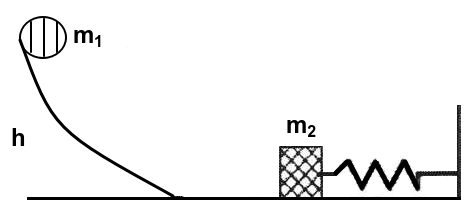
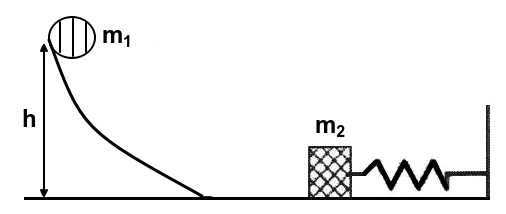
1

diff --git a/datos.js b/datos.js
@@ -280,62 +280,82 @@ const baseDatosProblemas = {
         }
     ],
     "elastica": [
-    {
-        titulo: "Problema 1: Energía elástica y rozamiento",
-        enunciado: "Un resorte de constante K = 4000 N/m se comprime una distancia de 0,4 m. Se apoya en él un objeto de 6 kg de masa. Se suelta el muelle y el objeto es lanzado en una superficie horizontal en la que la fuerza de rozamiento vale 27 N. Calcular: <br> a) la velocidad con que sale lanzado el objeto. <br> b) la distancia que recorre el objeto antes de pararse.",
-        solucion: `
-            <div class='paso'>
-                <strong>a) Cálculo de la velocidad de lanzamiento:</strong><br>
-                La energía potencial elástica almacenada en el muelle se transforma íntegramente en energía cinética (suponiendo que el muelle se suelta en el punto de equilibrio):<br>
-                \\[E_{pe} = \\frac{1}{2} \\cdot K \\cdot x^2 = \\frac{1}{2} \\cdot 4000 \\cdot (0,4)^2 = 320 \\text{ J}\\]
-                Igualamos a la energía cinética (\\(E_c = \\frac{1}{2} \\cdot m \\cdot v^2\\)) para despejar la velocidad:<br>
-                \\[320 = \\frac{1}{2} \\cdot 6 \\cdot v^2 \\implies v^2 = \\frac{320}{3} \\implies v = \\sqrt{106,67} \\approx 10,33 \\text{ m/s}\\]
-                <span class='resultado'>Resultado: &nbsp \\(v \\approx 10,3 \\text{ m/s}\\)</span>
-            </div>
-            <div class='paso'>
-                <strong>b) Distancia hasta detenerse:</strong><br>
-                El trabajo de la fuerza de rozamiento debe consumir toda la energía cinética del objeto hasta pararlo (\\(W_r = \\Delta E_c\\)):<br>
-                \\[W_r = F_r \\cdot x \\implies 320 = 27 \\cdot x\\]
-                \\[x = \\frac{320}{27} \\approx 11,85 \\text{ m}\\]
-                <span class='resultado'>Resultado: &nbsp \\(x = 11,85 \\text{ m}\\)</span>
-            </div>
-        `
-    },
-    {
-        titulo: "Problema 2: Conservación de la energía y choques",
-        enunciado: "En el sistema de la figura se tiene que \\(m_1 = 1 \\text{ kg}, h = 1 \\text{ m}, m_2 = 0,5 \\text{ kg}, K = 200 \\text{ N/m}\\), y el rozamiento es nulo. Al dejar suelta \\(m_1\\), cae y comprime el muelle. Calculad: <br> a) La velocidad de \\(m_1\\) al chocar con la otra masa y la máxima deformación del muelle. <br> b) Tras el choque, \\(m_1\\) y \\(m_2\\) salen despedidas juntas. Calculad con qué velocidad empezarán a subir, y hasta qué altura lo harán. <br> <br> <div style='text-align: center; margin-bottom: 20px;'> <img src='img/felas_2.png' style='max-width: 50%;height: auto; border-radius: 8px; box-shadow: 0px 4px 8px rgba(0,0,0,0.1);'> </div> ",
-        solucion: `
-            <div class='paso'>
-                <strong>a) Velocidad de choque y deformación:</strong><br>
-                La velocidad de \\(m_1\\) antes del choque se obtiene por conservación de energía mecánica:<br>
-                \\[m_1 \\cdot g \\cdot h = \\frac{1}{2} \\cdot m_1 \\cdot v^2 \\implies v = \\sqrt{2 \\cdot g \\cdot h} = \\sqrt{2 \\cdot 9,8 \\cdot 1} \\approx 4,43 \\text{ m/s}\\]
-                Para la deformación máxima, asumimos que tras el choque (que suele considerarse inelástico para que compriman juntos) la energía cinética del sistema se convierte en elástica. <br>
-                Primero hallamos la velocidad del conjunto (\\(v'\\)) por conservación del momento lineal:<br>
-                \\[m_1 \\cdot v = (m_1 + m_2) \\cdot v' \\implies 1 \\cdot 4,43 = 1,5 \\cdot v' \\implies v' \\approx 2,95 \\text{ m/s}\\]
-                Energía cinética del conjunto = Energía elástica máxima:<br>
-                \\[\\frac{1}{2} \\cdot (m_1 + m_2) \\cdot (v')^2 = \\frac{1}{2} \\cdot K \\cdot x^2\\]
-                \\[\\frac{1}{2} \\cdot (1,5) \\cdot (2,95)^2 = \\frac{1}{2} \\cdot 200 \\cdot x^2 \\implies 6,52 = 100 x^2 \\implies x \\approx 0,255 \\text{ m}\\]
-                <span class='resultado'>Resultados: &nbsp \\( v = 4,43 \\text{ m/s}\\); &nbsp \\(x = 0,255 \\text{ m}\\)</span>
-            </div>
-            <div class='paso'>
-                <strong>b) Velocidad de ascenso y altura máxima:</strong><br>
-                Como el enunciado indica que tras la compresión salen despedidas juntas y el rozamiento es nulo, la velocidad inicial de subida es la misma que calculamos tras el choque: \\(v' = 2,95 \\text{ m/s}\\).<br>
-                Para la altura final (\\(h'\\)), aplicamos de nuevo conservación de energía:<br>
-                \\[\\frac{1}{2} \\cdot M \\cdot (v')^2 = M \\cdot g \\cdot h' \\implies h' = \\frac{(v')^2}{2 \\cdot g}\\]
-                \\[h' = \\frac{2,95^2}{2 \\cdot 9,8} = \\frac{8,70}{19,6} \\approx 0,44 \\text{ m}\\]
-                <span class='resultado'>Resultados: &nbsp \\(v' = 2,95 \\text{ m/s}\\); &nbsp \\(h' = 0,44 \\text{ m}\\)</span>
-            </div>
-        `
-        }    
+        {
+            titulo: "Problema 1: Muelle vertical",
+            enunciado: "Al colgar un cuerpo de 10 kg de un muelle vertical se produce un alargamiento de 7,2 cm. Calcula: <br> </>a) La constante elástica del muelle. <br> b) La energía potencial elástica almacenada.",
+            solucion: `
+            `
+        },
+        {
+            titulo: "Problema 2: Energía elástica y rozamiento",
+            enunciado: "Un resorte de constante K = 4000 N/m se comprime una distancia de 0,4 m. Se apoya en él un objeto de 6 kg de masa. Se suelta el muelle y el objeto es lanzado en una superficie horizontal en la que la fuerza de rozamiento vale 27 N. Calcular: <br> a) la velocidad con que sale lanzado el objeto. <br> b) la distancia que recorre el objeto antes de pararse.",
+            solucion: `
+                <div class='paso'>
+                    <strong>a) Cálculo de la velocidad de lanzamiento:</strong><br>
+                    La energía potencial elástica almacenada en el muelle se transforma íntegramente en energía cinética (suponiendo que el muelle se suelta en el punto de equilibrio):<br>
+                    \\[E_{pe} = \\frac{1}{2} \\cdot K \\cdot x^2 = \\frac{1}{2} \\cdot 4000 \\cdot (0,4)^2 = 320 \\text{ J}\\]
+                    Igualamos a la energía cinética (\\(E_c = \\frac{1}{2} \\cdot m \\cdot v^2\\)) para despejar la velocidad:<br>
+                    \\[320 = \\frac{1}{2} \\cdot 6 \\cdot v^2 \\implies v^2 = \\frac{320}{3} \\implies v = \\sqrt{106,67} \\approx 10,33 \\text{ m/s}\\]
+                    <span class='resultado'>Resultado: &nbsp \\(v \\approx 10,3 \\text{ m/s}\\)</span>
+                </div>
+                <div class='paso'>
+                    <strong>b) Distancia hasta detenerse:</strong><br>
+                    El trabajo de la fuerza de rozamiento debe consumir toda la energía cinética del objeto hasta pararlo (\\(W_r = \\Delta E_c\\)):<br>
+                    \\[W_r = F_r \\cdot x \\implies 320 = 27 \\cdot x\\]
+                    \\[x = \\frac{320}{27} \\approx 11,85 \\text{ m}\\]
+                    <span class='resultado'>Resultado: &nbsp \\(x = 11,85 \\text{ m}\\)</span>
+                </div>
+            `
+        },
+        {
+            titulo: "Problema 3: Conservación de la energía y choques",
+            enunciado: "En el sistema de la figura se tiene que \\(m_1 = 1 \\text{ kg}, h = 1 \\text{ m}, m_2 = 0,5 \\text{ kg}, K = 200 \\text{ N/m}\\), y el rozamiento es nulo. Al dejar suelta \\(m_1\\), cae y comprime el muelle. Calculad: <br> a) La velocidad de \\(m_1\\) al chocar con la otra masa y la máxima deformación del muelle. <br> b) Tras el choque, \\(m_1\\) y \\(m_2\\) salen despedidas juntas. Calculad con qué velocidad empezarán a subir, y hasta qué altura lo harán. <br> <br> <div style='text-align: center; margin-bottom: 20px;'> <img src='img/felas_2.png' style='max-width: 50%;height: auto; border-radius: 8px; box-shadow: 0px 4px 8px rgba(0,0,0,0.1);'> </div> ",
+            solucion: `
+                <div class='paso'>
+                    <strong>a) Velocidad de choque y deformación:</strong><br>
+                    La velocidad de \\(m_1\\) antes del choque se obtiene por conservación de energía mecánica:<br>
+                    \\[m_1 \\cdot g \\cdot h = \\frac{1}{2} \\cdot m_1 \\cdot v^2 \\implies v = \\sqrt{2 \\cdot g \\cdot h} = \\sqrt{2 \\cdot 9,8 \\cdot 1} \\approx 4,43 \\text{ m/s}\\]
+                    Para la deformación máxima, asumimos que tras el choque (que suele considerarse inelástico para que compriman juntos) la energía cinética del sistema se convierte en elástica. <br>
+                    Primero hallamos la velocidad del conjunto (\\(v'\\)) por conservación del momento lineal:<br>
+                    \\[m_1 \\cdot v = (m_1 + m_2) \\cdot v' \\implies 1 \\cdot 4,43 = 1,5 \\cdot v' \\implies v' \\approx 2,95 \\text{ m/s}\\]
+                    Energía cinética del conjunto = Energía elástica máxima:<br>
+                    \\[\\frac{1}{2} \\cdot (m_1 + m_2) \\cdot (v')^2 = \\frac{1}{2} \\cdot K \\cdot x^2\\]
+                    \\[\\frac{1}{2} \\cdot (1,5) \\cdot (2,95)^2 = \\frac{1}{2} \\cdot 200 \\cdot x^2 \\implies 6,52 = 100 x^2 \\implies x \\approx 0,255 \\text{ m}\\]
+                    <span class='resultado'>Resultados: &nbsp \\( v = 4,43 \\text{ m/s}\\); &nbsp \\(x = 0,255 \\text{ m}\\)</span>
+                </div>
+                <div class='paso'>
+                    <strong>b) Velocidad de ascenso y altura máxima:</strong><br>
+                    Como el enunciado indica que tras la compresión salen despedidas juntas y el rozamiento es nulo, la velocidad inicial de subida es la misma que calculamos tras el choque: \\(v' = 2,95 \\text{ m/s}\\).<br>
+                    Para la altura final (\\(h'\\)), aplicamos de nuevo conservación de energía:<br>
+                    \\[\\frac{1}{2} \\cdot M \\cdot (v')^2 = M \\cdot g \\cdot h' \\implies h' = \\frac{(v')^2}{2 \\cdot g}\\]
+                    \\[h' = \\frac{2,95^2}{2 \\cdot 9,8} = \\frac{8,70}{19,6} \\approx 0,44 \\text{ m}\\]
+                    <span class='resultado'>Resultados: &nbsp \\(v' = 2,95 \\text{ m/s}\\); &nbsp \\(h' = 0,44 \\text{ m}\\)</span>
+                </div>
+            `
+        }
+
     ],
     "conservacion": [
-/*     {
+        {
+            titulo: "Problema 1: Altura en un plano inclinado",
+            enunciado: "Un cuerpo se mueve a una velocidad de 72 km/h cuando se encuentra con un plano inclinado a 45º. Si la masa del cuerpo es de 10 kg y se supone que no existe rozamiento entre el cuerpo y el plano, halla la altura que alcanza el cuerpo sobre el plano hasta que se detiene. <br> <br> <div style='text-align: center; margin-bottom: 20px;'> <img src='img/conservacion_1.png' style='max-width: 50%;height: auto; border-radius: 8px; box-shadow: 0px 4px 8px rgba(0,0,0,0.1);'> </div> ",
+            solucion: `
+            `
+        },
+        {
+            titulo: "Problema 2: Vagoneta en la montaña rusa",
+            enunciado: "La vagoneta de la montaña rusa tiene una masa de 200 kg y se encuentra parado a la altura de 18 m. Cuando alcanza su punto más bajo (B) se encuentra a 3 metros de altura e inicia un looping con un diámetro de 6 m. Halla: <br> a) Energía mecánica de la vagoneta en los puntos A, B y C. <br> b) Velocidad de la vagoneta en los puntos B y C. <br> <br> <div style='text-align: center; margin-bottom: 20px;'> <img src='img/conservacion_2.png' style='max-width: 50%;height: auto; border-radius: 8px; box-shadow: 0px 4px 8px rgba(0,0,0,0.1);'> </div> ",
+            solucion: `
+            `
+        },
 
-    }     */
     ],
-    "sistemas": [
-/*     {
-
-    }     */
+    "no-conservativas": [
+        {
+            titulo: "Problema 1: Choque sobre un muelle horizontal",
+            enunciado: "Un bloque de 5,0 kg choca con una velocidad de 10 \\( \\ce{m \\cdot s^{-1}} \\) contra un muelle de constante elástica \\( \\ce{ k = 25 \\\ N \\cdot m^{-1} } \\). El coeficiente de rozamiento entre el bloque y la superficie horizontal es 0,20. Calcula la longitud que se comprime el muelle.",
+            solucion: `
+            `
+        },
     ]
 };

diff --git a/index.html b/index.html
@@ -172,8 +172,8 @@
                 <select class="menu-desplegable" id="menu-conceptos"><option value="" disabled selected>📁 1. Conceptos básicos</option></select>
                 <select class="menu-desplegable" id="menu-fuerzas_vivas"><option value="" disabled selected>📁 2. Teorema de las fuerzas vivas</option></select>
                 <select class="menu-desplegable" id="menu-elastica"><option value="" disabled selected>📁 3. Fuerza elástica</option></select>
-                <select class="menu-desplegable" id="menu-conservacion"><option value="" disabled selected>📁 4. Conservación / Perdida de energía</option></select>
-                <select class="menu-desplegable" id="menu-sistemas"><option value="" disabled selected>📁 5. Sistemas combinados</option></select>
+                <select class="menu-desplegable" id="menu-conservacion"><option value="" disabled selected>📁 4. Conservación de la energía mecánica</option></select>
+                <select class="menu-desplegable" id="menu-no-conservativas"><option value="" disabled selected>📁 5. Fuerzas no conservativas</option></select>
             </div>
         </header>
 
